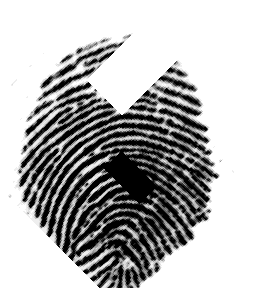
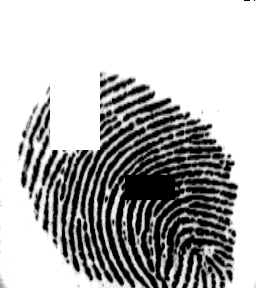
new class Starter_3

diff --git a/image.py b/image.py
@@ -4,6 +4,8 @@ from scipy import signal
 import cv2
 import matplotlib.pyplot as plt
 
+from starter3 import Starter_3
+
 class Image:
     def __init__(self, filename):
         self._data = cv2.imread(filename, 0)
@@ -83,82 +85,6 @@ class Image:
                     self._data[x][y] = tmp[n - 1 - x][y]
                 else:
                     self._data[x][y] = tmp[x][m - 1 - y]
-
-    def rotate(self, p, center_normalized):
-        ''' 2D rotation of the img matrix in a p angle
-        Makes the image bigger to compensate'''
-        center = np.array([self._data.shape[0]//(1/center_normalized[0]),self._data.shape[1]//(1/center_normalized[1])]).astype(int)
-        print(center)
-        p_radian = p * np.pi/180
-        n, m = self._data.shape
-        rotation_matrix = np.array([[np.cos(p_radian), -np.sin(p_radian)],[np.sin(p_radian), np.cos(p_radian)]])
-        
-        n_rotated = n
-        m_rotated = m
-        offset_x = 0
-        offset_y = 0
-        for i_c in [0,n-1] :
-            for j_c in [0,m-1] :
-                i = i_c-center[0]
-                j = j_c-center[1]
-                index_centered = np.array([i, j])
-                rotated_ind_centered = np.floor(rotation_matrix @ index_centered).astype(int)
-                rotated_ind = rotated_ind_centered + center
-                
-                if rotated_ind[0]>n_rotated :
-                    n_rotated = rotated_ind[0]
-                elif rotated_ind[0] < -offset_x:
-                    offset_x = -rotated_ind[0]
-                
-                if rotated_ind[1]>m_rotated :
-                    m_rotated = rotated_ind[1]
-                elif rotated_ind[1] < -offset_y:
-                    offset_y = -rotated_ind[1]
-
-        print(offset_x,offset_y)
-        print(n_rotated,m_rotated)
-
-        tmp = np.copy(self._data)
-        self._data = np.ones((n_rotated + offset_x, m_rotated + offset_y))
-
-        for i_c in range(0,n_rotated + offset_x):
-            for j_c in range(0,m_rotated + offset_y):
-                i = i_c-center[0] - offset_x
-                j = j_c-center[1] - offset_y
-                index_centered = np.array([i, j])
-                rotated_ind = np.floor(rotation_matrix @ index_centered).astype(int)
-                # print(rotated_ind)
-                if (0 <= rotated_ind[0] + center[0] < n) and (0 <=rotated_ind[1] + center[1]  < m):
-                    self._data[i_c][j_c] = tmp[rotated_ind[0] + center[0] ][rotated_ind[1] + center[1]]
-
-
-    def rotate2(self, p, center_normalized):
-        ''' 2D rotation of the img matrix in a p angle
-         Keeps the image size constant '''
-        # Get the pixel which will be the center of the rotation
-        center = np.array([self._data.shape[0]//(1/center_normalized[0]),self._data.shape[1]//(1/center_normalized[1])]).astype(int)
-        # Convert p to radian
-        p_radian = p * np.pi/180
-        n, m = self._data.shape
-        # rotatation matrix
-        rotation_matrix = np.array([[np.cos(p_radian), -np.sin(p_radian)],[np.sin(p_radian), np.cos(p_radian)]])
-        
-        # temporary copy of the grid
-        tmp = np.copy(self._data)
-        self._data = np.ones((n,m))
-
-        # calculate the new coordinates of each pixel (keeping the same intensity)
-        for i in range(0,n):
-            for j in range(0,m):
-                # adapt coordinates to the center of rotation
-                i_centered = i-center[0]
-                j_centered = j-center[1]
-                index_centered = np.array([i_centered, j_centered])
-                # compute the rotation of the pixel
-                rotated_ind = np.floor(rotation_matrix @ index_centered).astype(int)
-                # initialize the image by the rotation to the new pixel intensity, if in the boundaries of the image
-                if (0 <= rotated_ind[0] + center[0] < n) and (0 <=rotated_ind[1] + center[1]  < m):
-                    self._data[i][j] = tmp[rotated_ind[0] + center[0]][rotated_ind[1] + center[1]]
 
     def linear_interp(self, x, x1, x2, vx1, vx2):
         ''' Perorm the linear interpolation between the points x1 and x2, of values vx1 and vx2 
@@ -240,11 +166,13 @@ class Image:
                 # perform a bi-linear interpolation to compute the intensity of the rotated pixel
                 new_intensity = self.bilinear_interp(inverse_coord, tmp)
 
-    def pixel_center(self, i, j):
+    @staticmethod
+    def pixel_center(i, j):
         ''' Return the exact value of the center of the pixel of coordinates (i,j) '''
         return np.array([int(i+0.5), int(j+0.5)])
     
-    def intensity_of_center(self, point):
+    @staticmethod
+    def intensity_of_center(point):
         ''' Return the pixel intensity of the pixel of center point=(i, j) '''
         return self._data[int(point[0]-0.5), int(point[1]-0.5)]
 
@@ -259,33 +187,6 @@ class Image:
         # Convolve the image with a blur kernel
         self._data = cv2.filter2D(src=self._data, ddepth=-1, kernel=k)
 
-    def kernel(self,i,j,xc,yc):
-
-        # maximum distance from (i,j) point to each corners of the image
-        dist_max = max(np.linalg.norm(np.array([i,j]) - np.array([0,0])),
-                    np.linalg.norm(np.array([i,j]) - np.array([0,self.__m])),
-                    np.linalg.norm(np.array([i,j]) - np.array([self.__n, 0])),
-                    np.linalg.norm(np.array([i,j]) - np.array([self.__n, self.__m])))
-        
-        # we normalize distance to the center d((i,j), (x_c,y_c)) => (float between 0 and 1)
-        normalized_dist = np.linalg.norm(np.array([i,j]) - np.array([xc,yc]))/dist_max
-
-        # renormalize to the interval [1, 15] (15 is the max size of our kernel)
-        N_float = normalized_dist * (15-1) + 1
-        
-        # round N_float to the previous odd integer
-        N_odd = math.floor((N_float-1)/2)*2 + 1
-
-        # create a N_odd + 2 size matrix
-        matrix = np.eye(N_odd+2)[::-1]
-
-        # fill diagonal corners
-        matrix[0][-1] = (N_float - N_odd)/2 # normalization to [0,1]
-        matrix[-1][0] = (N_float - N_odd)/2
-
-        # preserve the intensity of the image
-        return matrix/np.sum(matrix)
-
     def conv_2d(self, xc, yc):
         
         n,m = self._data.shape
@@ -299,7 +200,7 @@ class Image:
         
         for i in range(0, n):
             for j in range(0, m):
-                K = self.kernel(i,j,xc,yc)
+                K = Starter_3.kernel(i,j,xc,yc,self.__m,self.__n)
                 N = K.shape[0]
                 result = 0
                 for N_i in range(-(N-1)//2, (N-1)//2 + 1):
@@ -336,6 +237,6 @@ class Image:
         # return np.fft.fftshift(ift_fg)
         self._data = signal.fftconvolve(self._data, g, mode="same")
 
-    def test_black(self, n=5):
-        np.set_printoptions(precision=1)
-        self._data = np.ones((n,n))
+    # def test_black(self, n=5):
+    #     np.set_printoptions(precision=1)
+    #     self._data = np.ones((n,n))

diff --git a/starter3.py b/starter3.py
@@ -1,11 +1,47 @@
 import numpy as np
+import math
 from scipy import signal
 import cv2
 import matplotlib.pyplot as plt
 
-from image import Image
+class Starter_3:
 
-# kernel = np.ones((15, 15))/225
-img = Image("images/clean_finger.png")
-img.conv_2d(200, 125)
-img.display()
+    @staticmethod
+    def kernel(i,j,xc,yc,m,n):
+        """
+            Returns a space dependent kernel used for motion blurring.  
+        """
+
+        # maximum distance from (i,j) point to each corners of the image
+        dist_max = max(np.linalg.norm(np.array([i,j]) - np.array([0,0])),
+                    np.linalg.norm(np.array([i,j]) - np.array([0,m])),
+                    np.linalg.norm(np.array([i,j]) - np.array([n, 0])),
+                    np.linalg.norm(np.array([i,j]) - np.array([n, m])))
+        
+        # we normalize distance to the center d((i,j), (x_c,y_c)) => (float between 0 and 1)
+        normalized_dist = np.linalg.norm(np.array([i,j]) - np.array([xc,yc]))/dist_max
+
+        # renormalize to the interval [1, 15] (15 is the max size of our kernel)
+        N_float = normalized_dist * (15-1) + 1
+        
+        # round N_float to the previous odd integer
+        N_odd = math.floor((N_float-1)/2)*2 + 1
+
+        # create a N_odd + 2 size matrix
+        matrix = np.eye(N_odd+2)[::-1]
+
+        # fill diagonal corners
+        matrix[0][-1] = (N_float - N_odd)/2 # normalization to [0,1]
+        matrix[-1][0] = (N_float - N_odd)/2
+
+        # preserve the intensity of the image
+        return matrix/np.sum(matrix)
+
+if __name__ == "__main__":
+
+    from image import Image
+
+    # kernel = np.ones((15, 15))/225
+    img = Image("images/clean_finger.png")
+    img.conv_2d(200, 125)
+    img.display()

diff --git a/main.py b/main.py
@@ -42,42 +42,42 @@ img.create_rectangle((175,125),25,50,"black")
 # img.symmetry(1)
 # img.rotate(45,(0.55,0.6))
 
-# img.save("warp1_finger_edit.png")
-# img.display()
+img.save("warp1_finger_edit.png")
+img.display()
 
 # img.rotate(-45,(0.5,0.5))
 # img.display()
 
-img.rotate2(45,(0.55,0.6))
+# img.rotate2(45,(0.55,0.6))
 
-img.save("warp1_finger_edit.png")
-#img.display()
+# img.save("warp1_finger_edit.png")
+# #img.display()
 
-img.rotate2(-45,(0.5,0.5))
-#img.display()
+# img.rotate2(-45,(0.5,0.5))
+# #img.display()
 
 
-# Testing for convolution
-# img = Image("images/warp1_finger.png")
+# # Testing for convolution
+# # img = Image("images/warp1_finger.png")
 
-# kernel = np.array([[-1,-1,-1],[-1,8,-1],[-1,-1,-1]])
+# # kernel = np.array([[-1,-1,-1],[-1,8,-1],[-1,-1,-1]])
+# # img.conv_2d(kernel)
+# # img.display()
+
+# img = Image("images/moist_finger.png")
+# kernel = np.array([[0,-1,0], [-1,4,-1], [0,-1,0]])
 # img.conv_2d(kernel)
 # img.display()
 
-img = Image("images/moist_finger.png")
-kernel = np.array([[0,-1,0], [-1,4,-1], [0,-1,0]])
-img.conv_2d(kernel)
-img.display()
+# #testing with black image
+# # img.test_black(5)
 
-#testing with black image
-# img.test_black(5)
+# # Testing 2D FFT
+# img = Image("images/moist_finger.png")
+# img_fft = img.fft_2d()
+# plt.imshow(abs(img_fft))
+# plt.show()
 
-# Testing 2D FFT
-img = Image("images/moist_finger.png")
-img_fft = img.fft_2d()
-plt.imshow(abs(img_fft))
-plt.show()
-
-img_ifft = img.ifft_2d(img_fft)
-plt.imshow(abs(img_ifft), cmap="gray")
-plt.show()
+# img_ifft = img.ifft_2d(img_fft)
+# plt.imshow(abs(img_ifft), cmap="gray")
+# plt.show()
